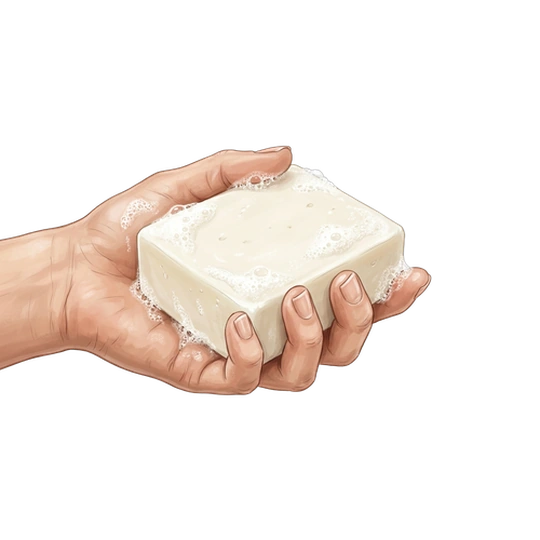
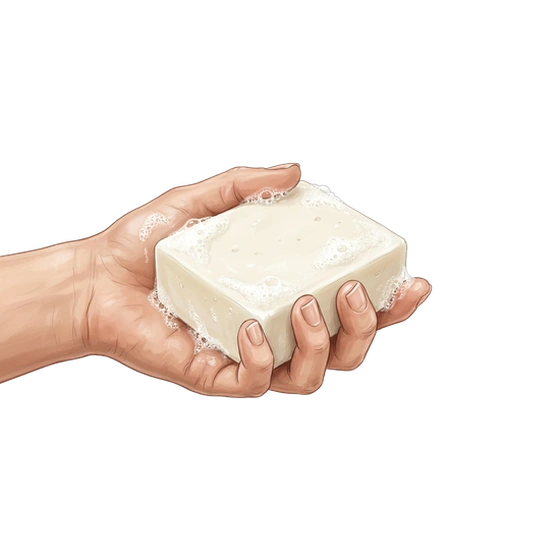
Pull the hand back from the medallion edge, show more forearm
Widened the composed canvas from 500 to 550 source px while holding the render
size at 115%, rather than simply scaling the art down. Shrinking it would have
dragged the forearm's cut edge back toward the circle and risked exposing it;
growing the canvas inside a fixed frame shrinks the subject and reveals more arm
while leaving the bleed margin untouched at 12px outside the circle.

Hand and soap now render 101px against 111px, and visible forearm goes from
roughly 26px to 31px. Forearm is 125px thick where the canvas cuts it, so it
still reads as continuing. Subject stays centred on both axes.

Changed region(s): [[0.0, 0.2667, 0.8, 0.7407], [0.3259, 0.4741, 0.3556, 0.5037]]

diff --git a/index.html b/index.html
@@ -157,7 +157,7 @@
     <div class="ethos-item" style="--accent:var(--navy);">
       <div class="icon icon--wide">
         <img src="assets/illustrations/hand-soap-icon.webp" alt=""
-             width="540" height="540" loading="lazy" decoding="async">
+             width="560" height="560" loading="lazy" decoding="async">
       </div>
       <h3>Poured By Hand</h3>
       <p>Small batches, hand-cut, hand-stamped. No two bars are quite the same shade of orange.</p>
